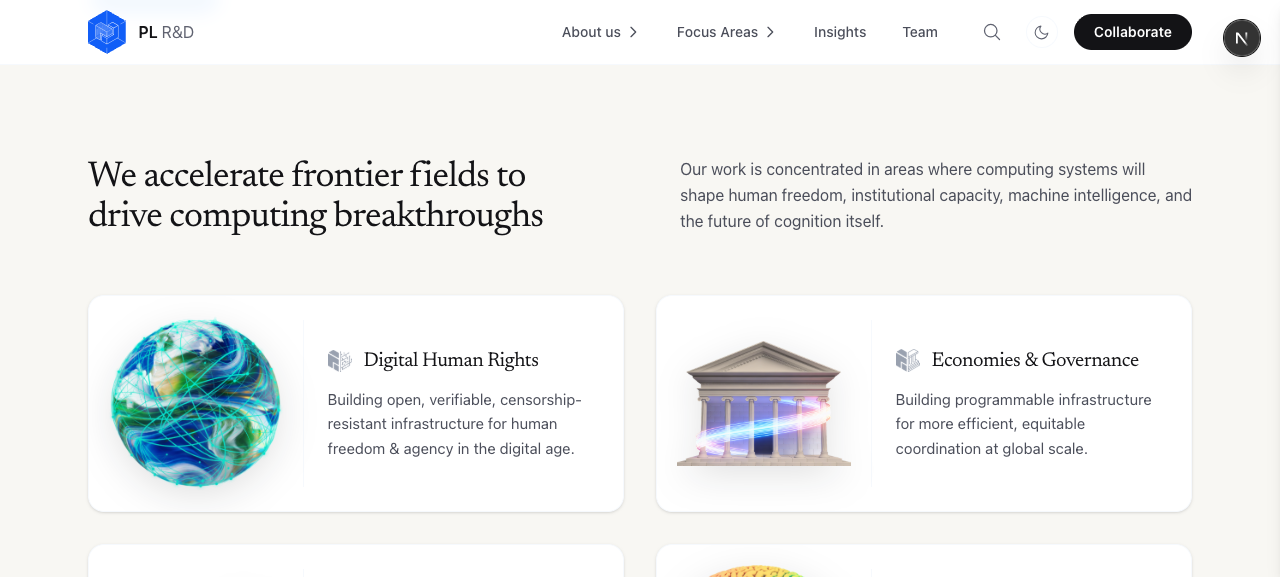
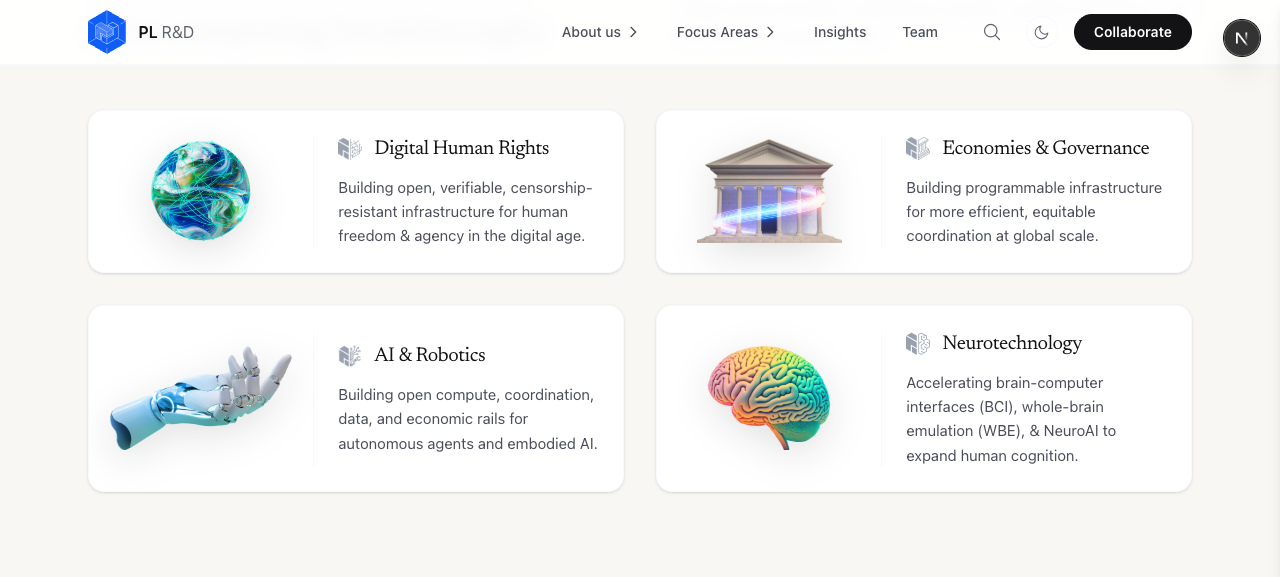
landing: normalize focus-area illustration heights (equal height, 20% smaller)
Give each illustration a fixed height with w-auto so all four render at the
same vertical height regardless of aspect ratio, instead of w-full+max-h
which left them at different heights. Sized to ~80% of the parthenon's
previous height (104px).

diff --git a/src/app/page.tsx b/src/app/page.tsx
@@ -293,13 +293,15 @@ function FocusAreaCard({
       className="group flex items-stretch bg-white border border-gray-200 rounded-2xl overflow-hidden shadow-sm hover:shadow-md hover:border-gray-300 transition-all duration-200"
     >
       {/* Illustration fully contained (not cropped) on the left. */}
-      <div className="flex-shrink-0 w-[38%] sm:w-[40%] flex items-center justify-center p-4 sm:p-5">
+      <div className="flex-shrink-0 w-[38%] sm:w-[42%] flex items-center justify-center p-4 sm:p-5">
         {image && (
           // eslint-disable-next-line @next/next/no-img-element
           <img
             src={image}
             alt=""
-            className="max-h-32 sm:max-h-44 w-full object-contain [filter:drop-shadow(0_10px_18px_rgba(15,17,21,0.12))] transition-transform duration-500 ease-out group-hover:scale-[1.03]"
+            /* Fixed height + w-auto so every illustration renders at the same
+               vertical height regardless of its aspect ratio. */
+            className="mx-auto h-[104px] w-auto max-w-full object-contain [filter:drop-shadow(0_10px_18px_rgba(15,17,21,0.12))] transition-transform duration-500 ease-out group-hover:scale-[1.03]"
           />
         )}
       </div>